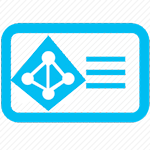
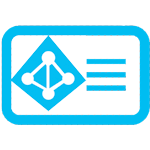
Docupdate002 (#30)
* documentation update

* Update README.md

* Update icon.png

diff --git a/README.md b/README.md
@@ -1,12 +1,31 @@
-# Summary
-Tasks packages to manage Azure AD Application from Azure DevOps release pipeline.
+# Purpose
+Tasks package that help manage Azure AD Application and Service Principal from Azure DevOps pipeline to your Azure Active Directory.
 
-## Available tasks
+***This package is all platform compatible.***
 
-### GetAzureAdApplicationId
+# Prerequisites to be used
+The **Azure Resource Manager** endpoint used with these tasks in your Azure DevOps require to have the proper **API permissions**.
+
+**1)** On the Azure Portal, you will find the **APP Registrations** option inside the **Azure Active Directory** sections
+Select the App registration related to your AzureDevOps **Azure Resource Manager endpoint**.
+
+**2)** Under that App registration, click on the option **API permissions** and add these ***API Permissions***
+- Azure Active Directory Graph -> Application.ReadWrite.All
+- Azure Active Directory Graph -> Directory.Read.All
+
+**3)** Click on **Grant admin consent for [YOUR Azure AD Organization]** (ensure your are the Owner of the current app registration)
+
+![AzureADAppRegistrationApiPermissions](_img/azureadapiperms.jpg)
+
+# Tasks include
+- GetAzureAdApplicationId
+- ManageAzureAdApplication
+- RemoveAzureAdApplication
+
+## GetAzureAdApplicationId
 ![GetAzureAdApplication](_img/get-azureadapplicationdetail-v2.jpg)
 
-### ManageAzureApplication
+## ManageAzureAdApplication
 ![ManageAzureAdApplication](_img/manageAdApplication-v2.jpg)
 #### Required parameters
 - Azure subscription
@@ -36,5 +55,5 @@ Tasks packages to manage Azure AD Application from Azure DevOps release pipeline
 
 	```["http://myurl.com","https://myurl.com]```
 
-### RemoveAzureADApplication
+## RemoveAzureADApplication
 ![Remove-AzureApplicationAD](_img/remove-applicationad-v2.jpg)
